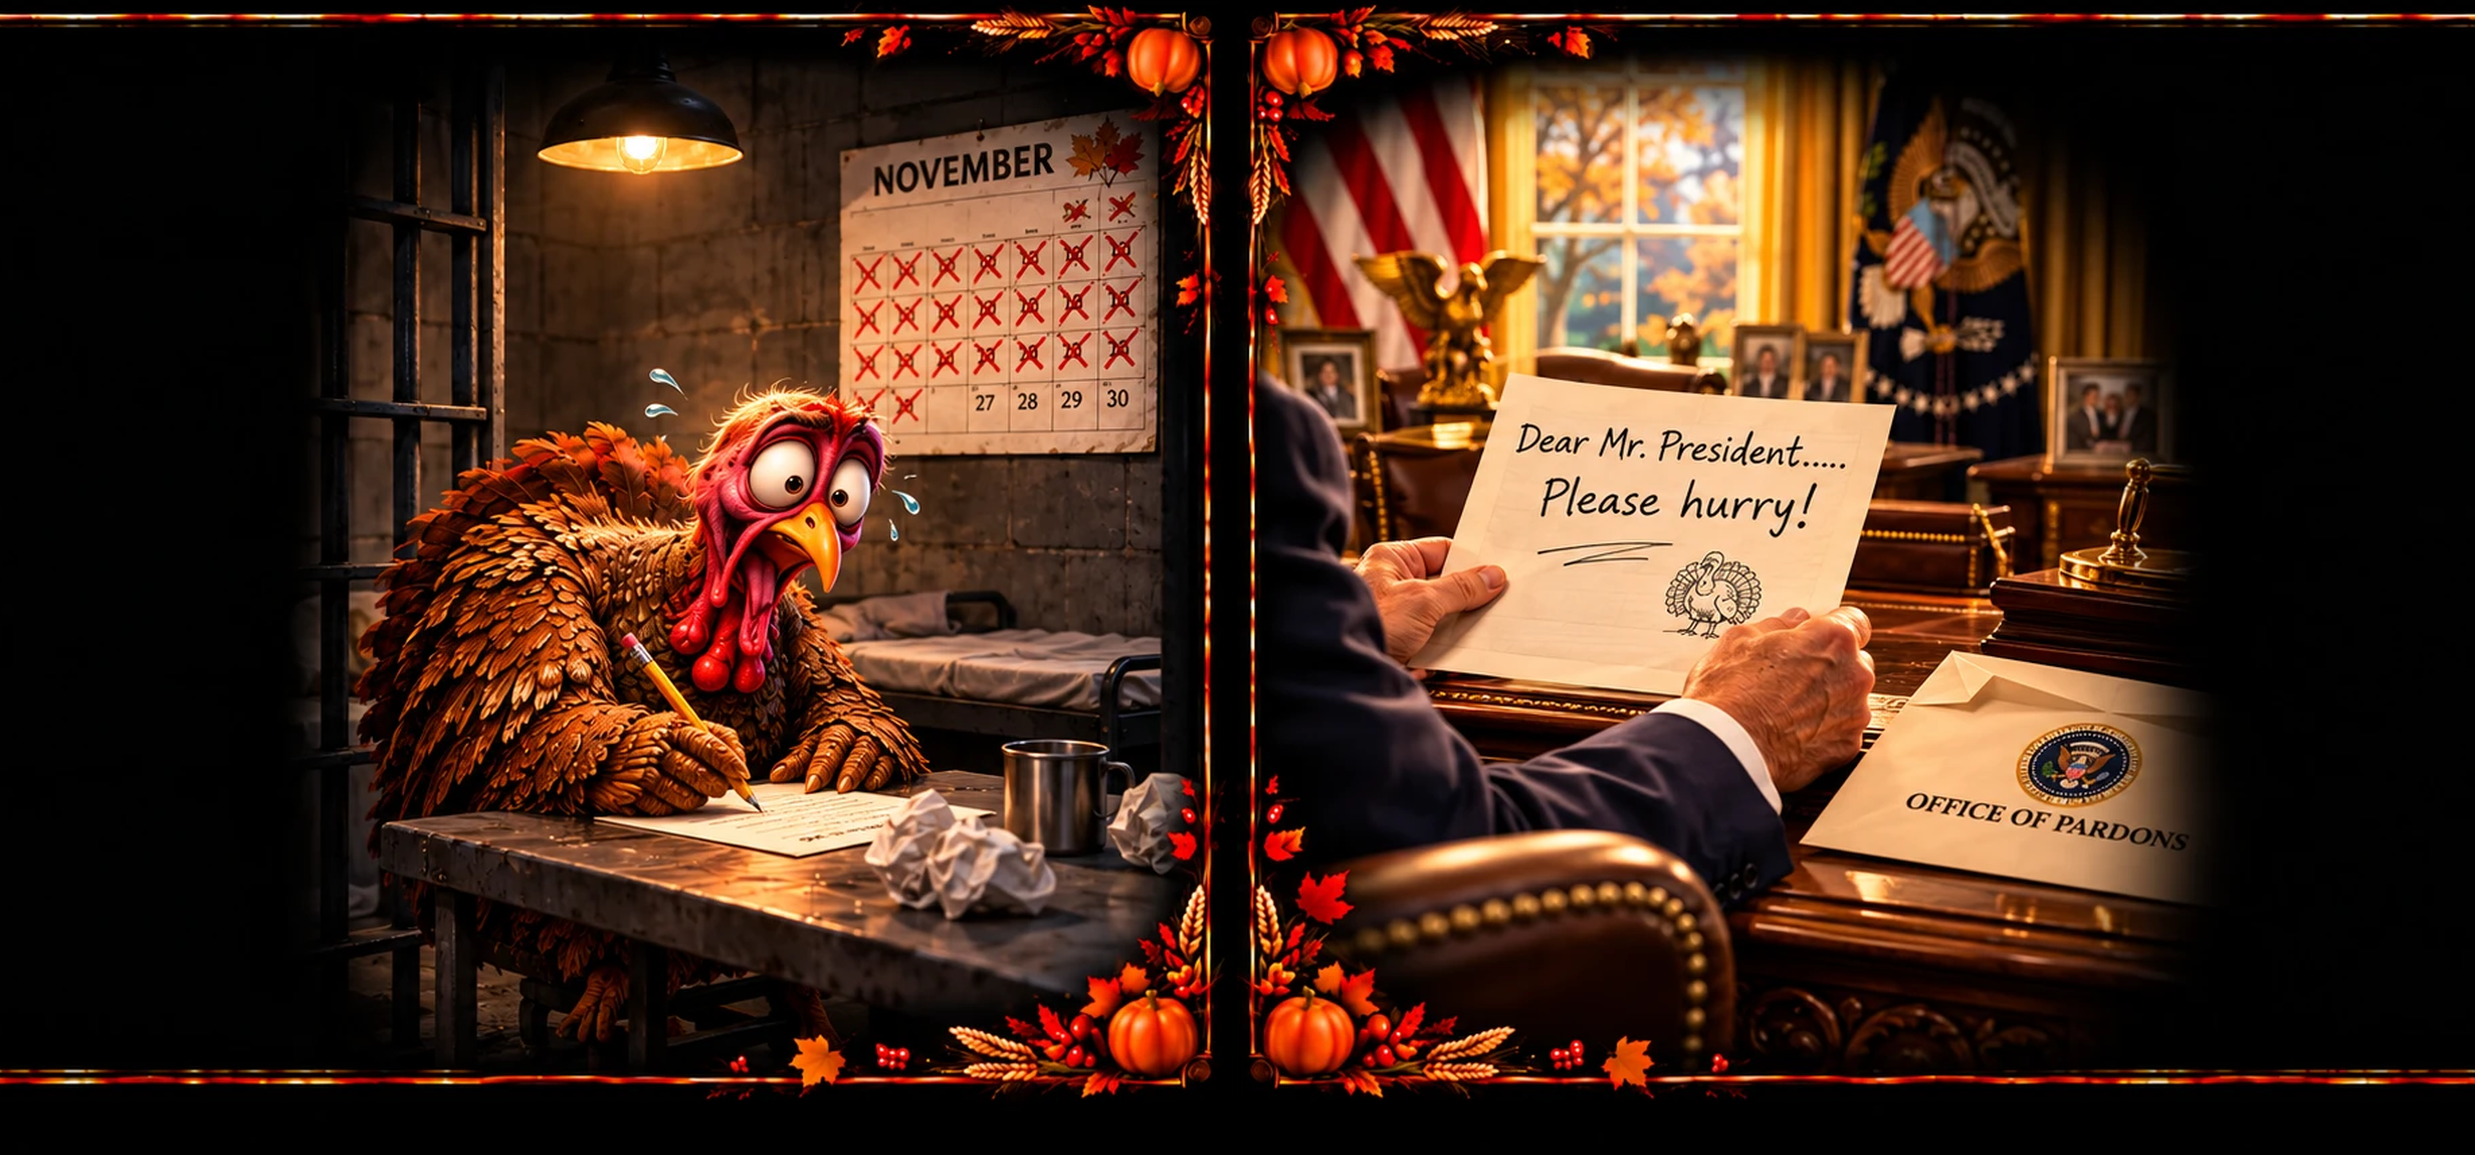
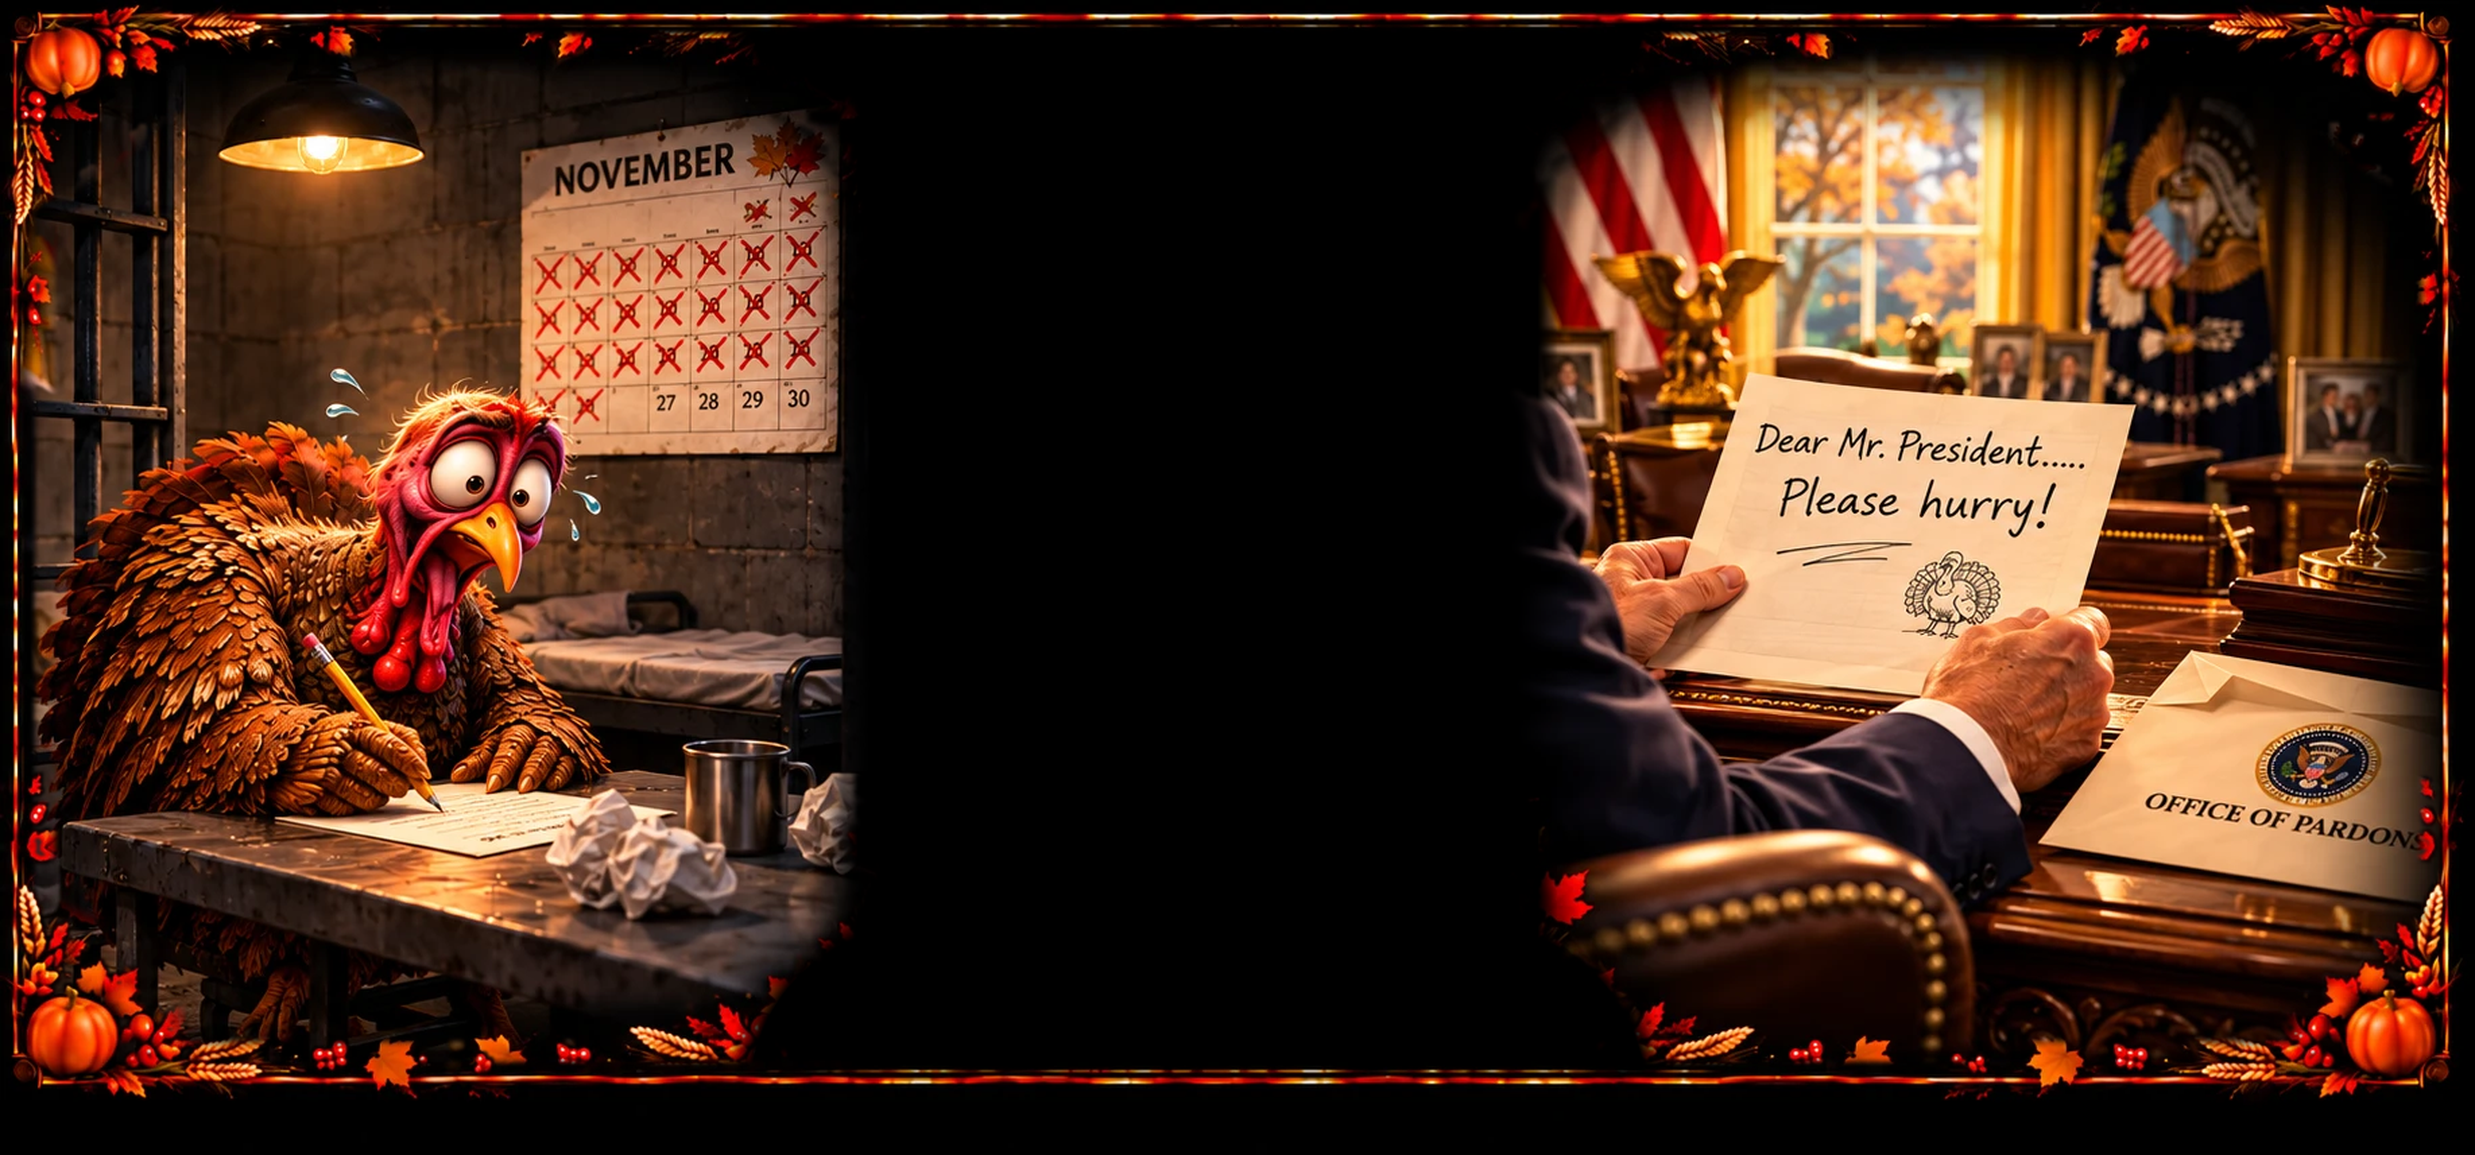
The Pardon, left-handed: the two scenes swapped, not turned round
Alyx, 26 Sep 2026: "why can't you just switch the artwork by sliding the
picture on the left all the way to the right". The left-handed Pardon was
its print rolled half round, which put the frame's two outer edges at the
front of the mug. Now the turkey's cell is on the left and the Oval Office
on the right, the black middle and the frame where Bud painted them
(tools/surprise/swap-scenes.py). The right-handed print is unchanged.

Claude-Session: https://claude.ai/code/session_01VPDKP5EJZDEyqUkUM3kqQb

diff --git a/tools/surprise/swap-scenes.py b/tools/surprise/swap-scenes.py
@@ -1,0 +1,63 @@
+# SURPRISE!!! set design, the other way round: swap-scenes.py <painting> <out.png>
+# (Alyx, 26 Sep 2026: "why can't you just switch the artwork by sliding the
+# picture on the left all the way to the right and ... the right to the left").
+# The left-handed layout of a set design Bud painted only one way: the two
+# scenes change places as whole blocks, nothing mirrored; the black middle
+# stays in the middle; each scene's old frame-side edge, which now faces the
+# middle, fades into the black; the frame's line and corner ornaments stay
+# where the painting has them, and the ornaments that rode along on the
+# scenes are taken off. Then fit-set-print.py <right> <name> <out.png>.
+import sys, numpy as np, cv2
+from PIL import Image
+src, out = sys.argv[1], sys.argv[2]
+a = np.asarray(Image.open(src).convert('RGB')).astype(float); H, W = a.shape[:2]
+def ss(t): t = np.clip(t, 0, 1); return t * t * (3 - 2 * t)
+m = a.max(2)
+col = np.percentile(m[120:740], 95, axis=0)
+# the two scenes: lit columns either side of the black middle
+dark = np.where(col < 14)[0]; mid = dark[(dark > W * 0.3) & (dark < W * 0.7)]
+L0, L1 = 18, mid.min(); R0, R1 = mid.max() + 1, W - 18
+hsv0 = cv2.cvtColor(a.astype(np.uint8), cv2.COLOR_RGB2HSV).astype(float)
+H0, S0, V0 = hsv0[..., 0] * 2, hsv0[..., 1] / 255, hsv0[..., 2] / 255
+orn0 = ((S0 > 0.40) & (V0 > 0.25) & (H0 > 5) & (H0 < 62)) | ((S0 > 0.5) & (V0 > 0.3) & ((H0 < 8) | (H0 > 340)))
+orn0 = cv2.GaussianBlur(cv2.dilate(orn0.astype(np.uint8), np.ones((9, 9), np.uint8)).astype(float), (0, 0), 2)
+yy0, xx0 = np.mgrid[0:H, 0:W]
+near = np.zeros((H, W))
+for cx in (0, W):
+    near = np.maximum(near, 1 - np.clip((np.abs(xx0 - cx) - 45) / 15, 0, 1))          # the old side of the frame
+    for cy in (0, 812):
+        near = np.maximum(near, 1 - np.clip((np.hypot(xx0 - cx, yy0 - cy) - 125) / 20, 0, 1))  # its corners
+clean = a * (1 - orn0 * near)[..., None]
+left, right = clean[:, L0:L1], clean[:, R0:R1]
+new = np.zeros_like(a)
+# right scene to the left, left scene to the right, each keeping its own height
+new[:, L0:L0 + right.shape[1]] = right
+new[:, R1 - left.shape[1]:R1] = left
+# each scene's old frame-side edge now faces the black middle: fade it in
+FE = 60
+x = np.arange(W)
+e1 = L0 + right.shape[1]; e2 = R1 - left.shape[1]
+f = np.ones(W)
+f[e1 - FE:e1] = ss(np.linspace(1, 0, FE)); f[e2:e2 + FE] = ss(np.linspace(0, 1, FE))
+f[e1:e2] = 0
+new *= f[None, :, None]
+# the frame: its line and ornaments, from the original, laid over the top
+hsv = cv2.cvtColor(a.astype(np.uint8), cv2.COLOR_RGB2HSV).astype(float)
+Hh, S, V = hsv[..., 0] * 2, hsv[..., 1] / 255, hsv[..., 2] / 255
+orn = (S > 0.45) & (V > 0.30) & (Hh > 8) & (Hh < 60)           # orange, amber, wheat
+orn |= (S > 0.55) & (V > 0.35) & ((Hh < 8) | (Hh > 340)) & (V < 0.85)  # berries
+orn = cv2.dilate(orn.astype(np.uint8), np.ones((5, 5), np.uint8)).astype(float)
+yy, xx = np.mgrid[0:H, 0:W]
+bottom = 812
+d = np.minimum.reduce([xx, W - 1 - xx, yy, bottom - yy])
+band = 1 - ss((d - 34) / 10.0)
+for cy in (0, bottom):
+    for cx in (0, W):
+        band = np.maximum(band, (1 - ss((np.hypot(xx - cx, yy - cy) - 130) / 25.0)) * orn)
+line = 1 - ss((d - 22) / 6.0)           # the frame's own line and the black outside it
+mask = np.clip(np.maximum(line, band * orn), 0, 1)
+mask = cv2.GaussianBlur(mask, (0, 0), 1.2)
+o = a * mask[..., None] + new * (1 - mask[..., None])
+o[bottom + 4:] = a[bottom + 4:]
+Image.fromarray(np.clip(o, 0, 255).astype(np.uint8)).save(out)
+print('scenes', (L0, L1), (R0, R1))
